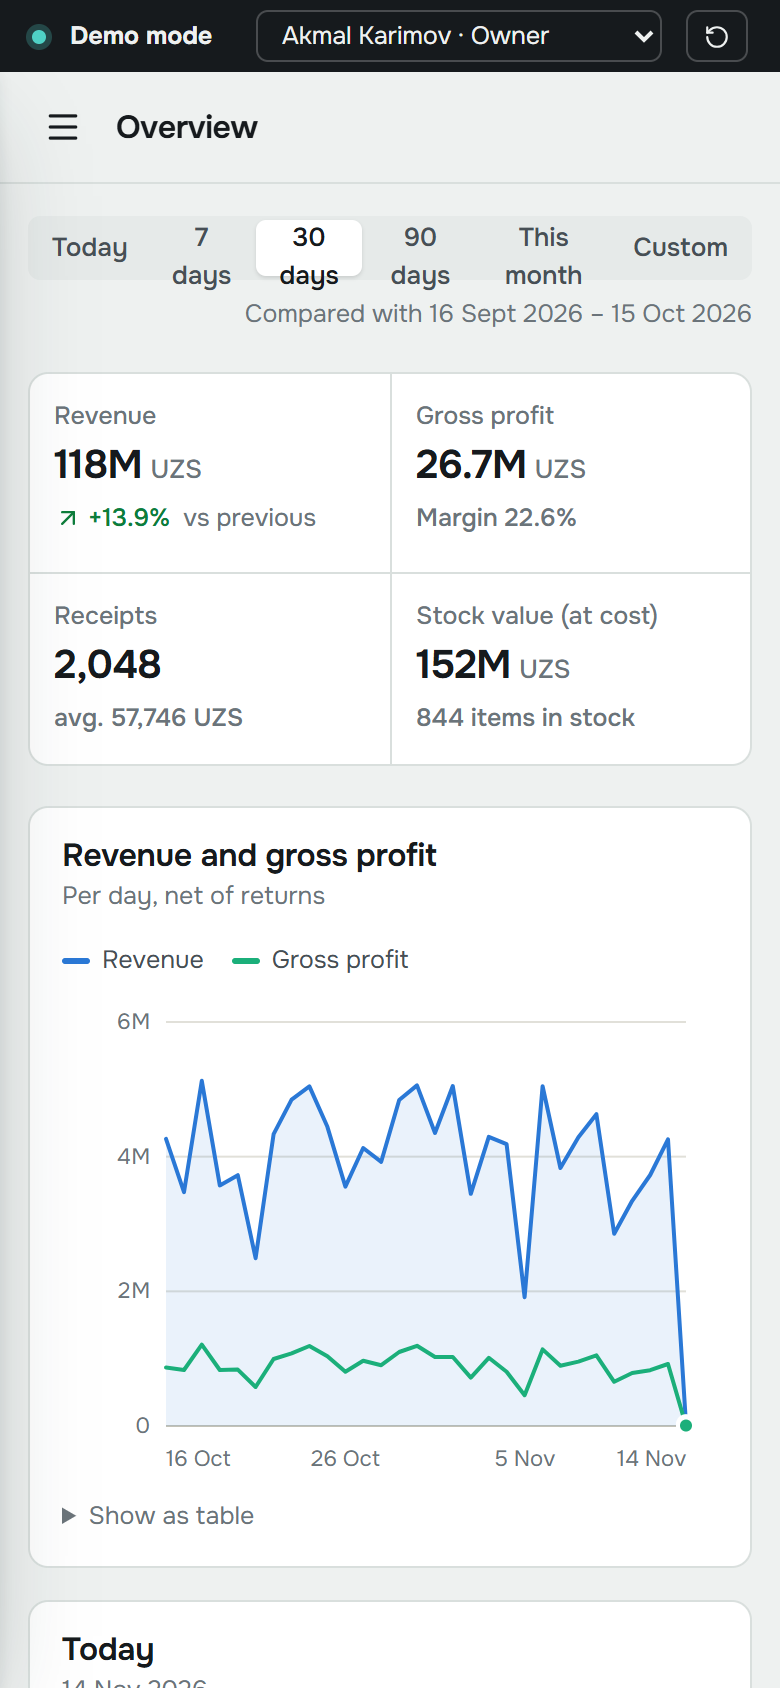
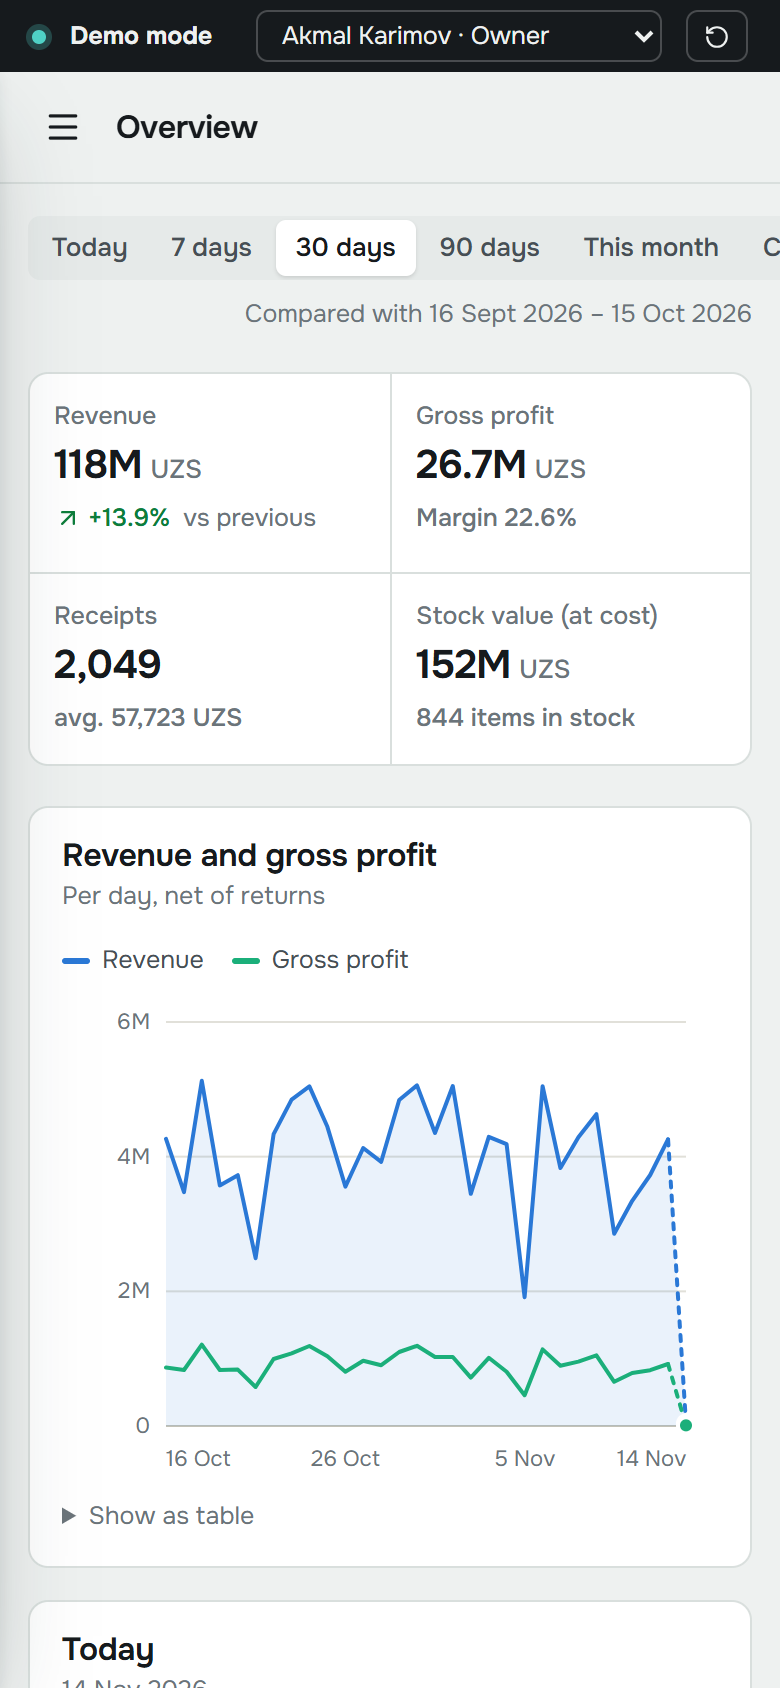
Fix API error-handler typing, refresh screenshots, enable Pages via API instead of the workflow

diff --git a/apps/api/src/app.ts b/apps/api/src/app.ts
@@ -40,7 +40,8 @@ export async function buildApp(opts: AppOptions): Promise<FastifyInstance> {
     reply.setCookie(COOKIE, token, { httpOnly: true, sameSite: 'lax', secure: opts.cookieSecure ?? false, path: '/', expires });
 
   app.setErrorHandler((err, req, reply) => {
-    const e = err instanceof AppError ? err : (err as { validation?: unknown }).validation ? new AppError('VALIDATION', err.message) : toAppError(err);
+    const v = err as { validation?: unknown; message?: string };
+    const e = err instanceof AppError ? err : v.validation ? new AppError('VALIDATION', v.message ?? 'Invalid input') : toAppError(err);
     if (e.status >= 500) req.log.error(err);
     void reply.status(e.status).send({ error: { code: e.code, message: e.message, details: e.details } });
   });
